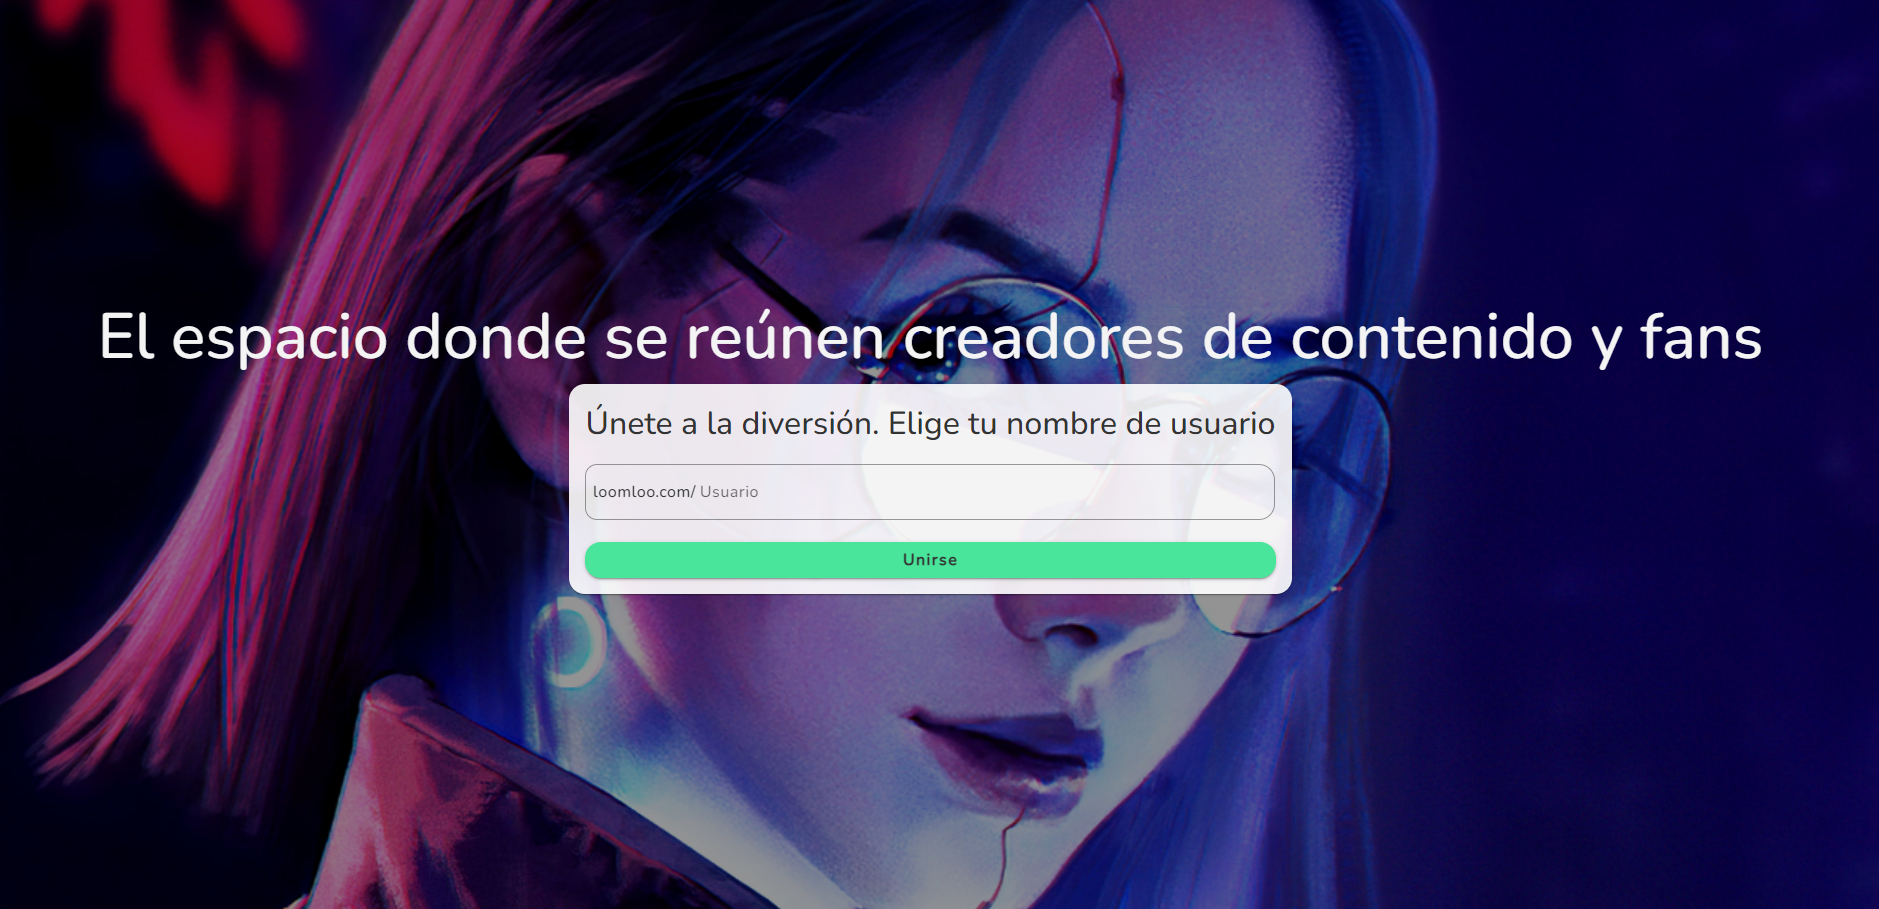
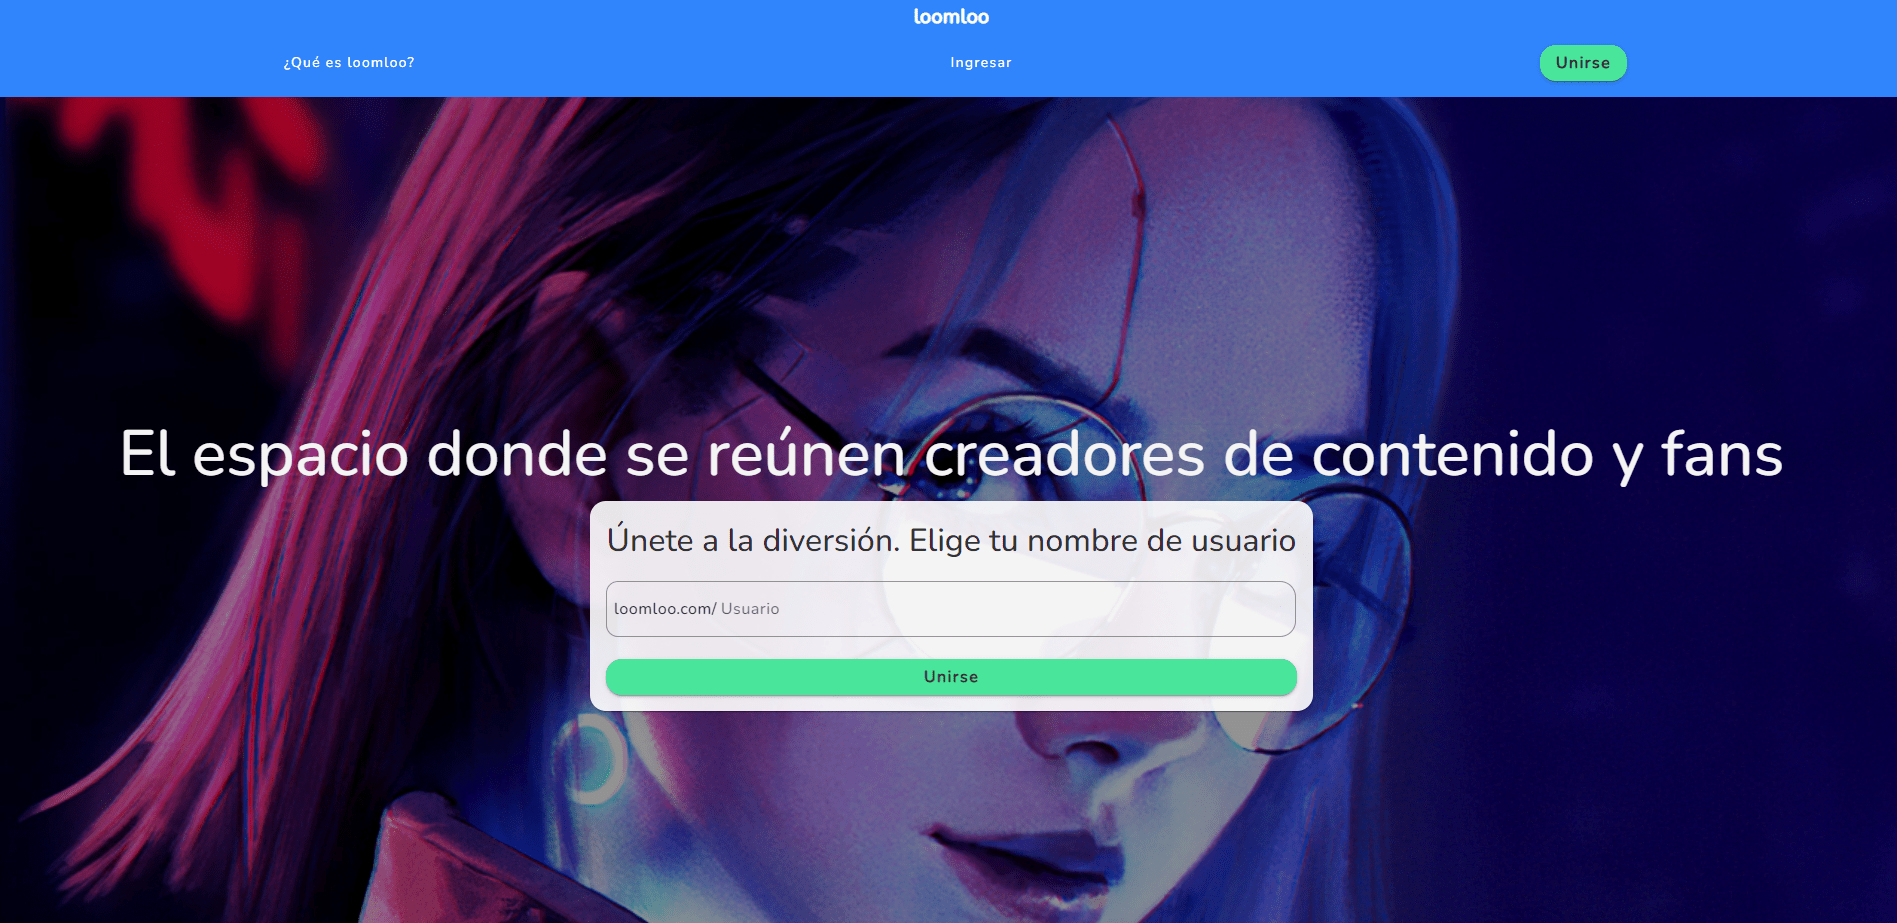
Image loomloo compressed styles improvements

diff --git a/src/App/About/About.tsx b/src/App/About/About.tsx
@@ -47,7 +47,7 @@ function About() {
                     </svg>
 
 
-                    <span>Visit</span>
+                    <span className='btnDescription'>Visit</span>
                   </button>
 
                 </a>
@@ -62,7 +62,7 @@ function About() {
           <h1 className="-titleBlack">Staff</h1>
 
           <ul className='-subtitleBlack'>
-            <li>Kevin Espinoza - CEO and Fullstack Development</li>
+            <li>Kevin Espinoza - CEO and Software Developer</li>
           </ul>
         </section>
 

diff --git a/src/App/Home/Home.css b/src/App/Home/Home.css
@@ -9,9 +9,8 @@
 
 .gif{
     width: 100%;
-    height: 110%;
+    height: 100%;
     background-image: url('../../assets/earth.gif');
-    position: absolute;
     background-size: cover;
     background-position: center;
     filter: brightness(40%);
@@ -44,8 +43,5 @@ to { width: 55% }
   }
 
 @media screen and (max-width: 768px) {
-    .gif{
-        width: 100%;
-        background-position: 47%;
-    }
+    
 }

diff --git a/src/App/Navbar/Navbar.tsx b/src/App/Navbar/Navbar.tsx
@@ -52,7 +52,7 @@ function Navbar (){
                         <Link to={'/about'} className="link">About</Link>
                     </li>
                     <li>
-                    <Link to={'/contact'} className="link">Contact</Link>
+                        <Link to={'/contact'} className="link">Contact</Link>
                     </li>
                 </ul>
                 

diff --git a/src/App/Contact/Contact.tsx b/src/App/Contact/Contact.tsx
@@ -1,10 +1,11 @@
 function Contact() {
   return (
     <>
-      <h1 className="title">Contact</h1>
-      <hr />
-
-      <p>Welcome to Contact section of Future Laugh!</p>
+      <div>
+        <h1 className="-title">Contact</h1>
+        <p>You can find us in diferent social media</p>
+      
+      </div>
     </>
   )
 }

diff --git a/src/App/App.css b/src/App/App.css
@@ -1,9 +1,7 @@
 .mainContainer{
-    padding: 0px 32px;
+    padding: 0px;
 }
 
-@media screen and (max-width: 768px) {
-    .mainContainer{
-        padding: 0px;
-    }
+@media screen and (min-width: 768px) {
+    
 }

diff --git a/src/App/About/About.css b/src/App/About/About.css
@@ -41,7 +41,10 @@
 }
 
 .btnVisit{
-    width: 80px;
+    width: 84px;
+}
+.btnDescription{
+    align-self: flex-end;
 }
 
 @media screen and (max-width: 768px) {

diff --git a/src/App/Navbar/Navbar.css b/src/App/Navbar/Navbar.css
@@ -57,6 +57,7 @@
     background-color: #133ee5ff;
     width: 100%;
     padding: 0;
+    margin: 0px;
 }
 .navigation-menu li {
     list-style-type: none;

diff --git a/src/index.css b/src/index.css
@@ -92,7 +92,7 @@ li{
   justify-content: center;
 }
 .-cardBtnSection>a{
-  margin-left: 32px;
+  margin-top: 32px;
 }
 
 
